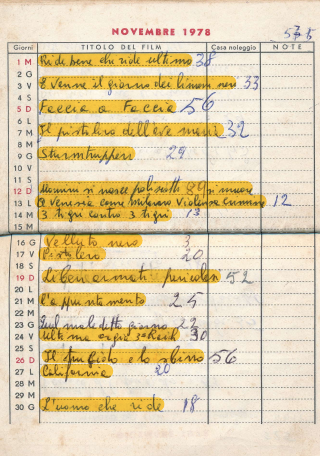
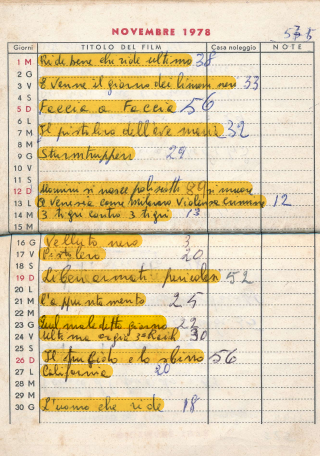
update agenda prevost 77_78

Changed region(s): [[0.125, 0.6754, 0.5312, 0.7368]]

diff --git a/content/agende/1977-11-01-agenda-prevost 1977-78/index.md b/content/agende/1977-11-01-agenda-prevost 1977-78/index.md
@@ -5,10 +5,9 @@ date: '1977-11-01'
 slug: agenda-prevost-1977-78
 categories:
   - Agende
-  - Proiezioni
 tags:
-  - AgendaCinematografica
   - Database
+  - Proiezioni
 ---
 {{< image-gallery gallery_dir="/images/1977_11_01_prevost_1977_78" >}}
 
@@ -24,7 +23,7 @@ tags:
 |1977-12-11         |[Il pirata Barbanera](https://www.imdb.com/title/tt0044426/)             |
 |1977-12-18         |[Occhio alla vedova!](https://www.imdb.com/title/tt0189840/)             |
 |1977-12-25         |[Poliziotti violenti](https://www.imdb.com/title/tt0075085/)             |
-|1977-12-29         |[Jungla erotica (Africa Erotica)](https://www.imdb.com/title/tt0189634/) |
+|1977-12-29         |[Africa erotica (Jungla erotica)](https://www.imdb.com/title/tt0189634/) |
 |1977-12-31         |[Apache](https://www.imdb.com/title/tt0068429/)                          |
 |1978-01-03         |[Eva nera](https://www.imdb.com/title/tt0074501/)                        |
 |1978-01-04         |[Natale in casa d'appuntamento](https://www.imdb.com/title/tt0125945/)   |
@@ -109,7 +108,7 @@ tags:
 |1978-09-05         |[Un toro da monta](https://www.imdb.com/title/tt0075340/)                |
 |1978-09-07         |[Anno 2000 - La corsa della morte](https://www.imdb.com/title/tt0072856/)|
 |1978-09-08         |[La tigre di Hong Kong](https://www.imdb.com/title/tt2173924/)           |
-|1978-09-10         |[The Switch (Operazione Ozerov)](https://www.imdb.com/title/tt4716856/)  |
+|1978-09-10         |[Operazione ozerov (The Switch)](https://www.imdb.com/title/tt4716856/)  |
 |1978-09-12         |[Le laureande](https://www.imdb.com/title/tt1370411/)                    |
 |1978-09-14         |[Peccati sul letto di famiglia](https://www.imdb.com/title/tt0217779/)   |
 |1978-09-15         |[Maschio latino cercasi](https://www.imdb.com/title/tt0128330/)          |
@@ -120,8 +119,8 @@ tags:
 |1978-09-24         |[Vai col liscio](https://www.imdb.com/title/tt0215297/)                  |
 |1978-09-26         |[Un violento week-end di terrore](https://www.imdb.com/title/tt0075922/) |
 |1978-09-28         |[L'ammazzatina](https://www.imdb.com/title/tt0071132/)                   |
-|1978-10-01         |[Un esercito di 5 uomini](https://www.imdb.com/title/tt0064300/)         |
-|1978-10-03         |[La ragazza sotto il lenzuolo](https://www.imdb.com/title/tt0139552/)    |
+|1978-10-01         |[Mesito (Un esercito di 5 uomini)](https://www.imdb.com/title/tt0064300/)|
+|1978-10-03         |[La dottoressa sotto il lenzuolo](https://www.imdb.com/title/tt0074427/) |
 |1978-10-05         |[Kong - Uragano sulla metropoli](https://www.imdb.com/title/tt0060440/)  |
 |1978-10-06         |[Le calde labbra di Emanuelle](https://www.imdb.com/title/tt0071136/)    |
 |1978-10-08         |[Il figlio di Spartacus](https://www.imdb.com/title/tt0057060/)          |
@@ -150,6 +149,7 @@ tags:
 |1978-11-17         |[Il pistolero](https://www.imdb.com/title/tt0075213/)                    |
 |1978-11-19         |[Liberi armati pericolosi](https://www.imdb.com/title/tt0074792/)        |
 |1978-11-21         |[L'appuntamento](https://www.imdb.com/title/tt0075692/)                  |
+|1978-11-23         |[Quel maledetto giorno d'inverno... Django e Sartana all'ultimo sangue](https://www.imdb.com/title/tt0067643/)|
 |1978-11-24         |[L'ultima orgia del III Reich](https://www.imdb.com/title/tt0074569/)    |
 |1978-11-26         |[Il trucido e lo sbirro](https://www.imdb.com/title/tt0075352/)          |
 |1978-11-27         |[California](https://www.imdb.com/title/tt0075796/)                      |
